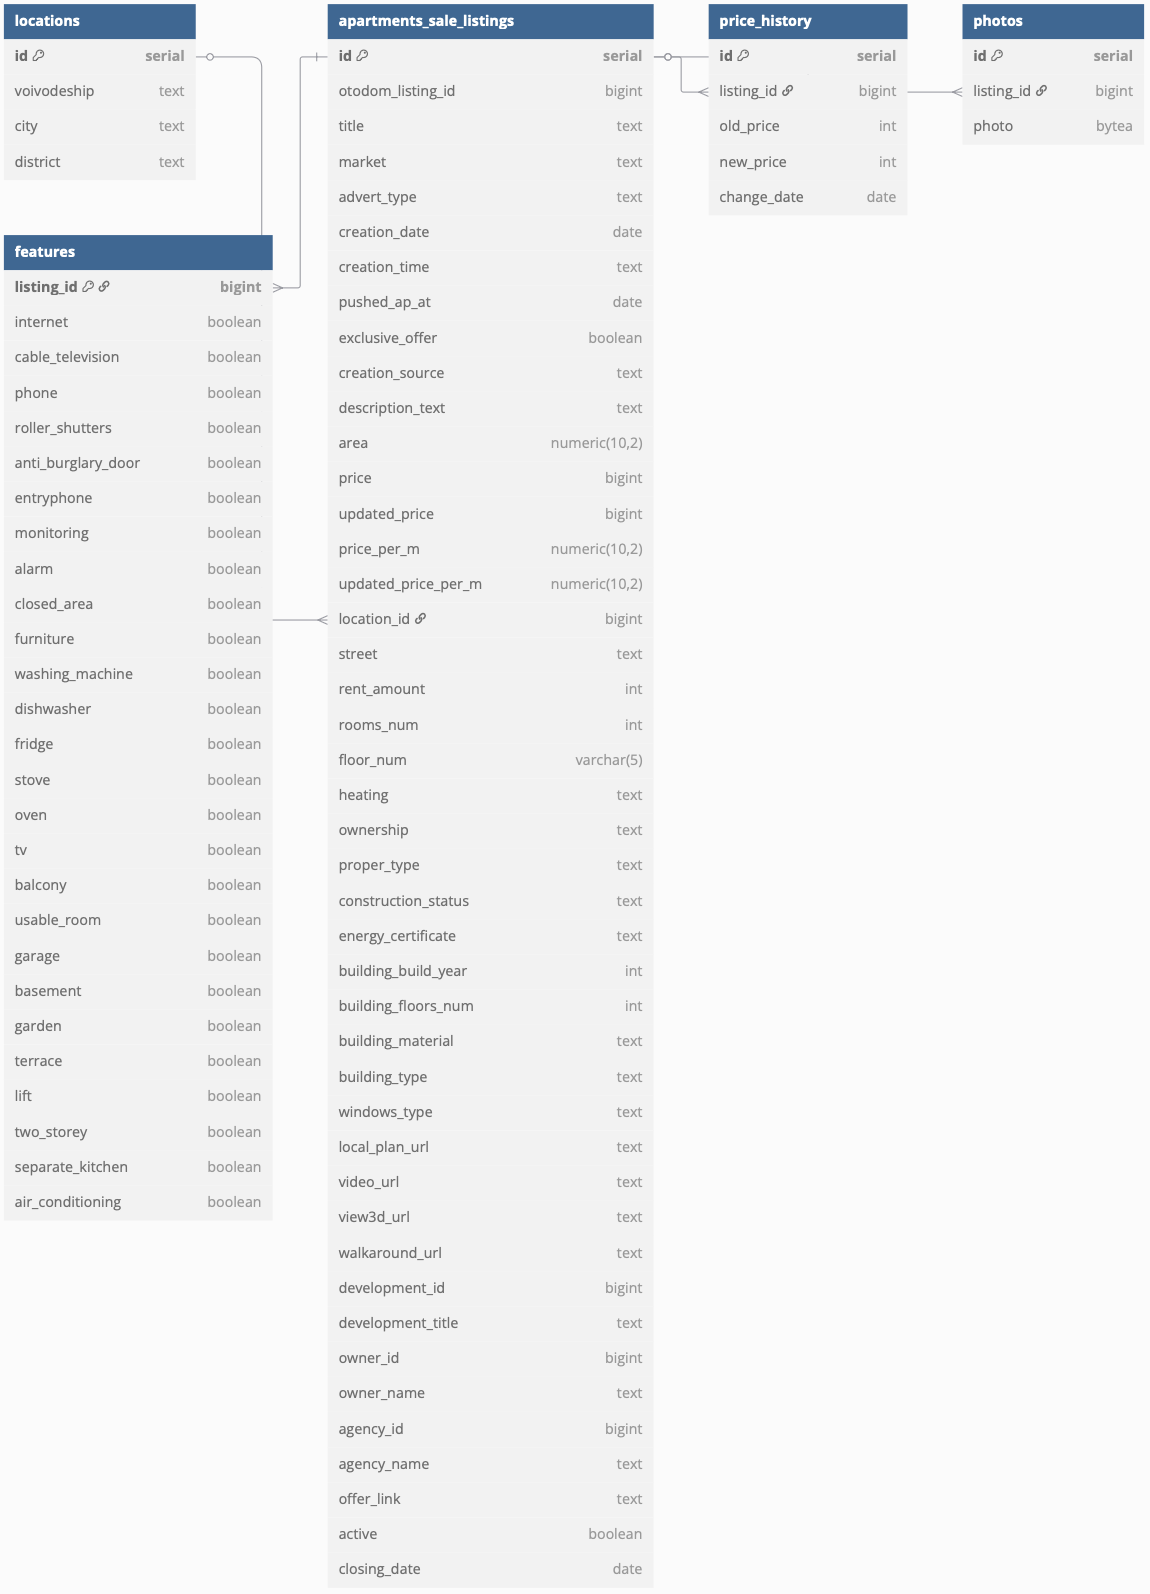
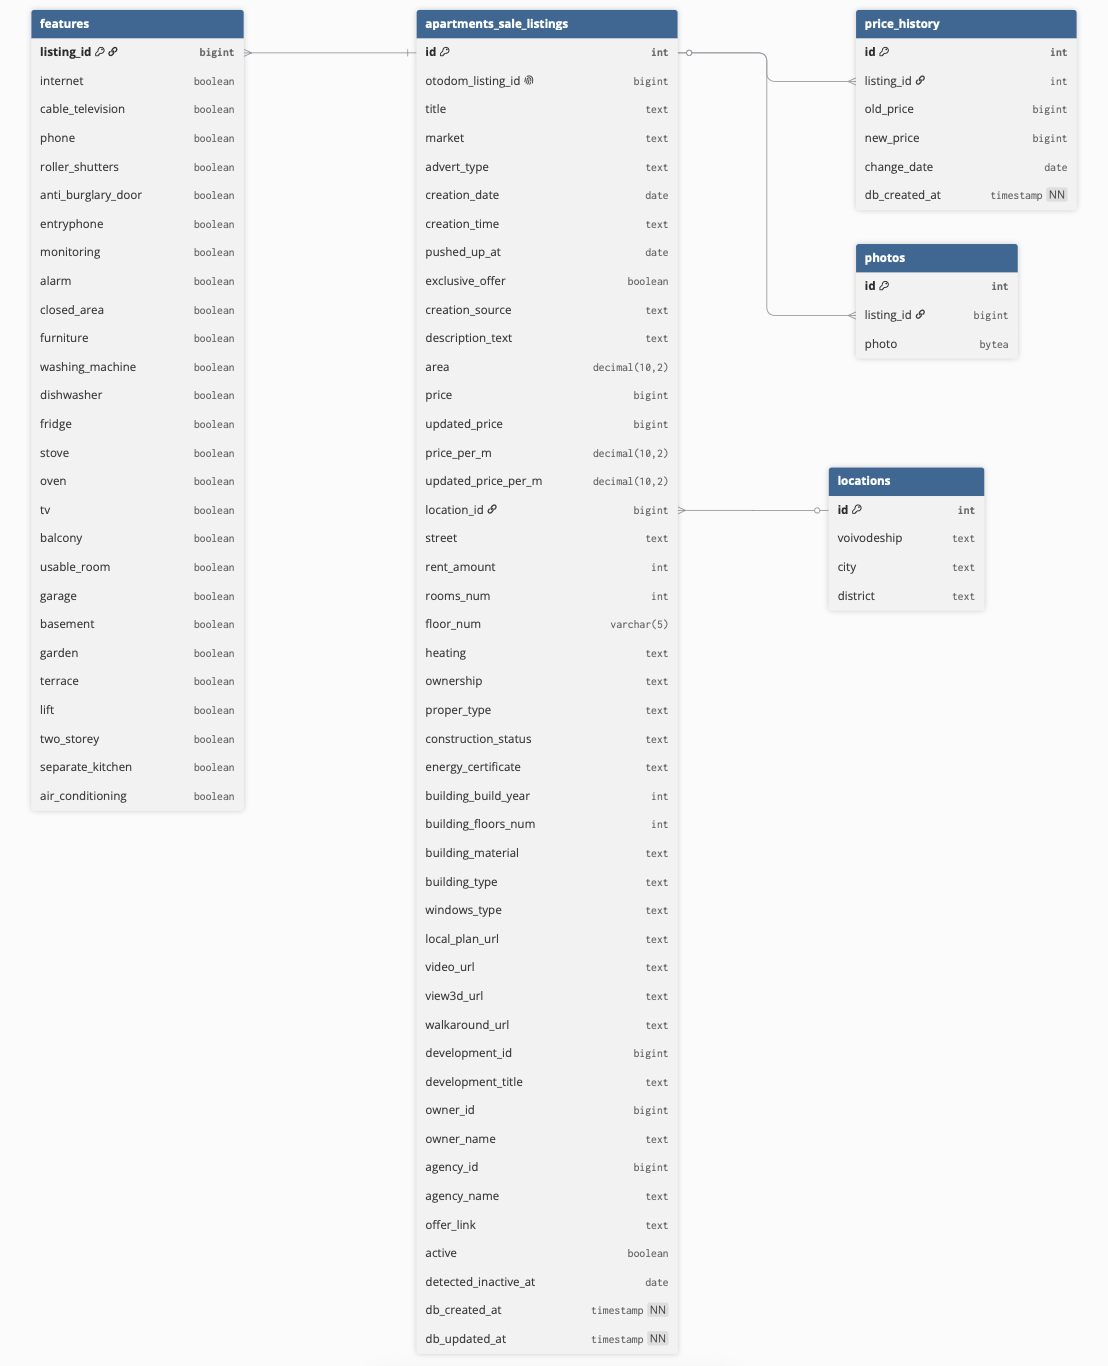
add db timestamps in db

diff --git a/main.py b/main.py
@@ -6,7 +6,7 @@ if scraper_path not in sys.path:
 
 from scraper.scraper import is_allowed_to_scrape, scrape_offer
 from scraper.fetch_and_parse import download_data_from_search_results, check_if_offer_exists, check_if_price_changed, find_closed_offers
-from db.db_setup import create_tables
+from db.db_setup import create_tables, run_migrations
 from db.db_operations import insert_new_listing, update_active_offers, update_deleted_offers, get_db_connection
 
 from dotenv import load_dotenv
@@ -32,14 +32,12 @@ def main(url, city):
             return
         cur=conn.cursor()
         
-        # Upewnij się, ze to dozwolone
         result = is_allowed_to_scrape(url)
         logging.info(f"scraping allowed: {result}")
 
-        # Utwórz tabele jezeli nie istnieją
         create_tables(cur)
+        run_migrations(cur)
 
-        # pobierz dane
         logging.info("fetching basic data from search results...")
         all_offers_basic_from_sarching_page = download_data_from_search_results(url)
 

diff --git a/db/db_operations.py b/db/db_operations.py
@@ -182,7 +182,10 @@ def update_price_in_listings_table(offer_data, cur):
 
         update_price_query = """
             UPDATE apartments_sale_listings
-            SET updated_price = %s, updated_price_per_m = %s
+            SET 
+                updated_price = %s, 
+                updated_price_per_m = %s,
+                db_updated_at = CURRENT_TIMESTAMP
             WHERE id = %s
             ;"""
 
@@ -245,7 +248,10 @@ def update_deleted_offers(offer_data, conn, cur):
 
         update_inactive_query = """
         UPDATE apartments_sale_listings
-        SET active = %s, detected_inactive_at = %s
+        SET
+            active = %s,
+            detected_inactive_at = %s,
+            db_updated_at = CURRENT_TIMESTAMP
         WHERE id = %s
         ;"""
 

diff --git a/db/db_setup.py b/db/db_setup.py
@@ -102,3 +102,21 @@ def create_tables(cur):
     except Exception as error:
         logging.exception(f"error during table setup: {error}")
 
+def run_migrations(cur):
+    cur.execute("""
+        ALTER TABLE apartments_sale_listings
+        ADD COLUMN IF NOT EXISTS db_created_at TIMESTAMP
+        NOT NULL DEFAULT CURRENT_TIMESTAMP
+    """)
+
+    cur.execute("""
+        ALTER TABLE apartments_sale_listings
+        ADD COLUMN IF NOT EXISTS db_updated_at TIMESTAMP
+        NOT NULL DEFAULT CURRENT_TIMESTAMP
+    """)
+
+    cur.execute("""
+        ALTER TABLE price_history
+        ADD COLUMN IF NOT EXISTS db_created_at TIMESTAMP
+        NOT NULL DEFAULT CURRENT_TIMESTAMP
+    """)
